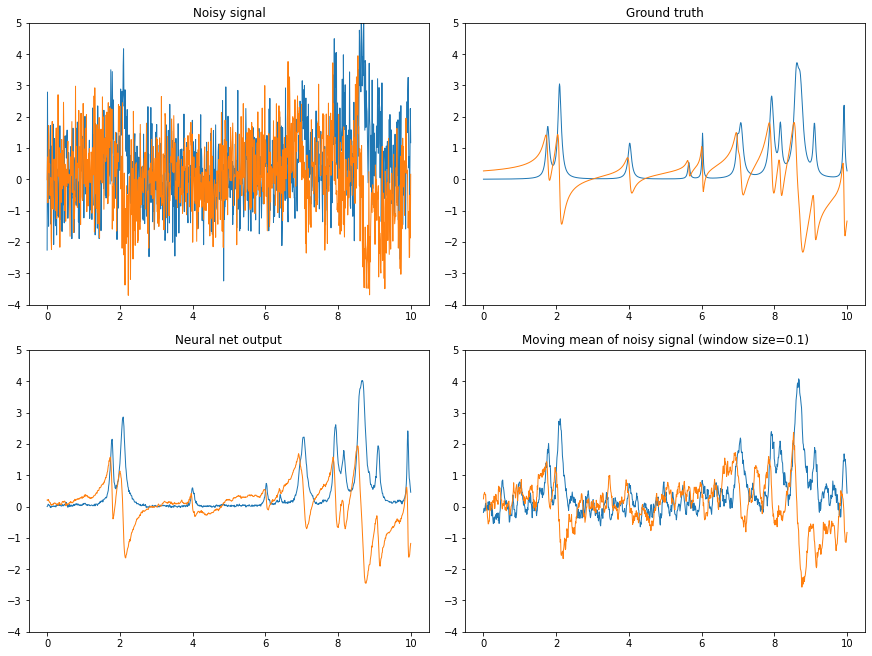
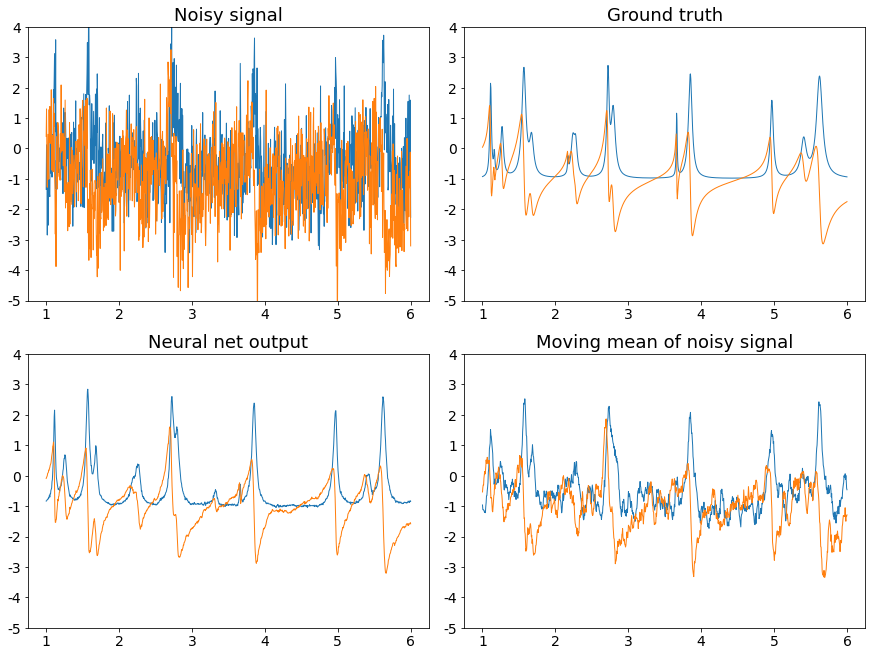
rebuilding site Tue May 24 17:28:26 CEST 2022

diff --git a/denoising/index.html b/denoising/index.html
@@ -26,23 +26,23 @@
     
     
     <meta property="og:title" content="Miscellaneous" />
-<meta property="og:description" content="Denoising Signals Methods from Machine Learning can be used in signal processing to improve the quality of noisy signals. A toy example that I have coded in PyTorch suggests that this method works well in situations where the signal has the form of Lorentz peaks. Such signals are commonly found in spectroscopy data. Qualitatively, such signals look like the following image. In real life, any measured signal will not be given by a clean, smooth line, but by a noisy one, in which the individual peaks can often hardly be seen with the naked eye." />
+<meta property="og:description" content="Denoising Signals Methods from Machine Learning can be used in signal processing to improve the quality of noisy signals. A toy example that I have coded in PyTorch suggests that this method works well in situations where the signal has the form of Lorentz peaks. Such signals are commonly found in spectroscopy data. Qualitatively, such signals look like the following image (blue = real part, orange = imaginary part of the signal)." />
 <meta property="og:type" content="article" />
 <meta property="og:url" content="https://frank-roesler.github.io/denoising/" />
 <meta property="article:published_time" content="2020-06-01T16:49:58+01:00" />
 <meta property="article:modified_time" content="2020-06-01T16:49:58+01:00" />
 <meta itemprop="name" content="Miscellaneous">
-<meta itemprop="description" content="Denoising Signals Methods from Machine Learning can be used in signal processing to improve the quality of noisy signals. A toy example that I have coded in PyTorch suggests that this method works well in situations where the signal has the form of Lorentz peaks. Such signals are commonly found in spectroscopy data. Qualitatively, such signals look like the following image. In real life, any measured signal will not be given by a clean, smooth line, but by a noisy one, in which the individual peaks can often hardly be seen with the naked eye.">
+<meta itemprop="description" content="Denoising Signals Methods from Machine Learning can be used in signal processing to improve the quality of noisy signals. A toy example that I have coded in PyTorch suggests that this method works well in situations where the signal has the form of Lorentz peaks. Such signals are commonly found in spectroscopy data. Qualitatively, such signals look like the following image (blue = real part, orange = imaginary part of the signal).">
 <meta itemprop="datePublished" content="2020-06-01T16:49:58+01:00" />
 <meta itemprop="dateModified" content="2020-06-01T16:49:58+01:00" />
-<meta itemprop="wordCount" content="95">
+<meta itemprop="wordCount" content="211">
 
 
 
 <meta itemprop="keywords" content="" />
 <meta name="twitter:card" content="summary"/>
 <meta name="twitter:title" content="Miscellaneous"/>
-<meta name="twitter:description" content="Denoising Signals Methods from Machine Learning can be used in signal processing to improve the quality of noisy signals. A toy example that I have coded in PyTorch suggests that this method works well in situations where the signal has the form of Lorentz peaks. Such signals are commonly found in spectroscopy data. Qualitatively, such signals look like the following image. In real life, any measured signal will not be given by a clean, smooth line, but by a noisy one, in which the individual peaks can often hardly be seen with the naked eye."/>
+<meta name="twitter:description" content="Denoising Signals Methods from Machine Learning can be used in signal processing to improve the quality of noisy signals. A toy example that I have coded in PyTorch suggests that this method works well in situations where the signal has the form of Lorentz peaks. Such signals are commonly found in spectroscopy data. Qualitatively, such signals look like the following image (blue = real part, orange = imaginary part of the signal)."/>
 
 	
   </head>
@@ -268,11 +268,17 @@
       </header>
       <div class="nested-copy-line-height lh-copy f4 nested-links nested-img mid-gray">
         <h2 id="denoising-signals">Denoising Signals</h2>
-<p>Methods from Machine Learning can be used in signal processing to improve the quality of noisy signals. A toy example that I have coded in PyTorch suggests that this method works well in situations where the signal has the form of Lorentz peaks. Such signals are commonly found in spectroscopy data. Qualitatively, such signals look like the following image. In real life, any measured signal will not be given by a clean, smooth line, but by a noisy one, in which the individual peaks can often hardly be seen with the naked eye.</p>
-<!-- raw HTML omitted -->
-<!-- raw HTML omitted -->
-<!-- raw HTML omitted -->
-<!-- raw HTML omitted -->
+<p>Methods from Machine Learning can be used in signal processing to improve the quality of noisy signals. A toy example that I have coded in PyTorch suggests that this method works well in situations where the signal has the form of Lorentz peaks. Such signals are commonly found in spectroscopy data. Qualitatively, such signals look like the following image (blue = real part, orange = imaginary part of the signal). In real life, any measured signal will not be given by a clean, smooth line, but by a noisy one, in which the individual peaks can often hardly be seen with the naked eye.</p>
+<figure>
+    <img src="/images/denoising/examples.png"/> 
+</figure>
+
+<p>A neural network can be trained on many (randomly generated) examples like the above to reproduce the clean signal from the noisy one. My code is openly available as a Colab Notebook here: <a href="https://colab.research.google.com/drive/1-XNd5Di7p9Ah4hioiQM2rIoLASWf67FJ?usp=sharing"><code>my_notebook_on_colab</code></a>. Anyone with a Google account can run the code in the cloud and test it.<br>
+The plots below show the result of a convolutional neural net with 4 layers trained to minimize the mean square error of its output and the clean signal. For comparison, I have included a moving mean of the noisy signal (which is expected to reduce the noise somewhat). Clearly, the model outperforms the moving mean smoothing.</p>
+<figure>
+    <img src="/images/denoising/result.png"/> 
+</figure>
+
 
       </div>
     </article>
